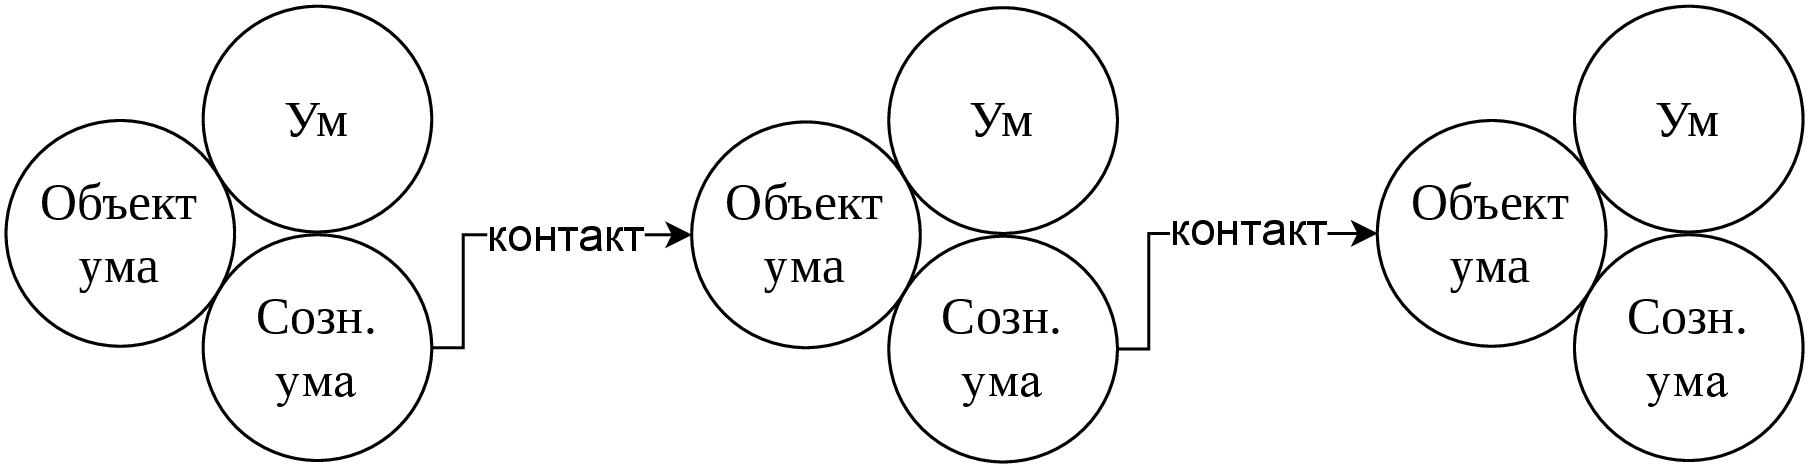
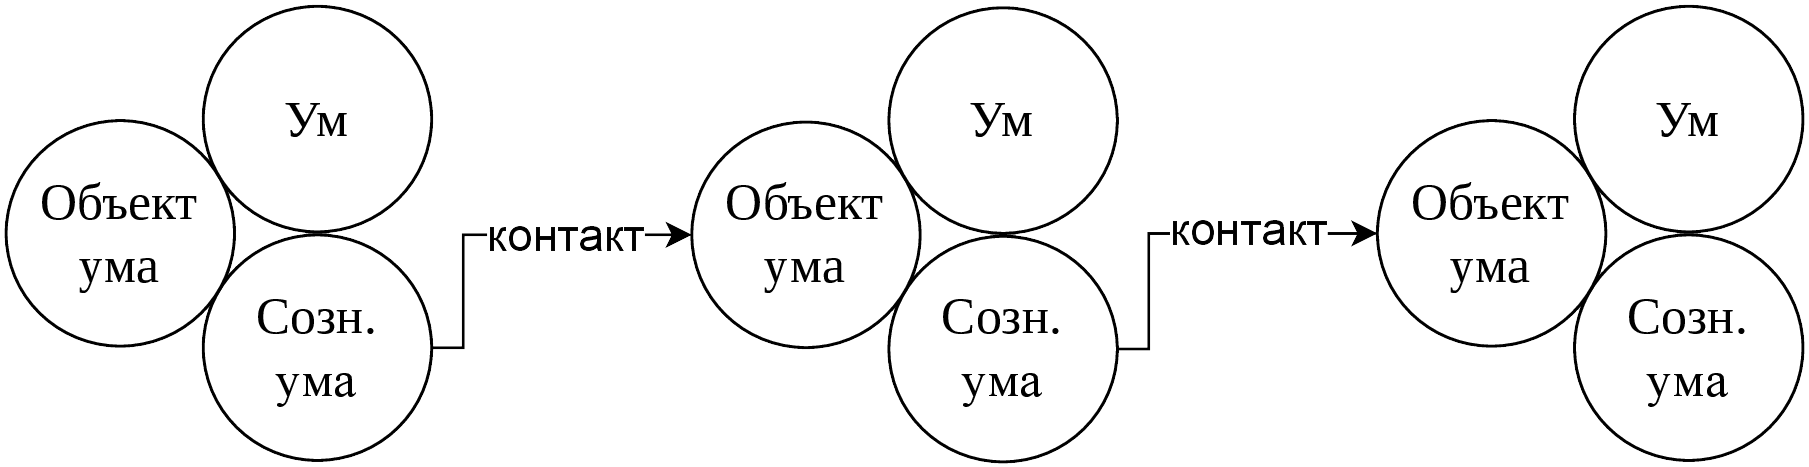
chore(materials): refresh sermon images, convert ayatana_scheme_ru to PNG
Replaces the assets behind ayatana_scheme_mind_{ru,en}, ayatana_scheme_en,
vase_faces, and Tapchan_the_cat_best_friend; swaps ayatana_scheme_ru
from JPG to PNG and updates the require() call in MaterialScreen.tsx
to match the new extension.

Changed region(s): [[0.3405, 0.4797, 0.3715, 0.5096]]

diff --git a/components/screens/MaterialScreen.tsx b/components/screens/MaterialScreen.tsx
@@ -47,7 +47,7 @@ const materialsListMap: MaterialMap = {
 const imgSources: Record<string, any> = {
     'ayatana_scheme_mind_ru': require('@/components/screens/materials/content/images/ayatana_scheme_mind_ru.png'),
     'ayatana_scheme_mind_en': require('@/components/screens/materials/content/images/ayatana_scheme_mind_en.png'),
-    'ayatana_scheme_ru': require('@/components/screens/materials/content/images/ayatana_scheme_ru.jpg'),
+    'ayatana_scheme_ru': require('@/components/screens/materials/content/images/ayatana_scheme_ru.png'),
     'ayatana_scheme_en': require('@/components/screens/materials/content/images/ayatana_scheme_en.png'),
     'sri_bodhiraja_center': require('@/components/screens/materials/content/images/sri_bodhiraja_center.jpg'),
     'vase_faces': require('@/components/screens/materials/content/images/vase_faces.png'),
